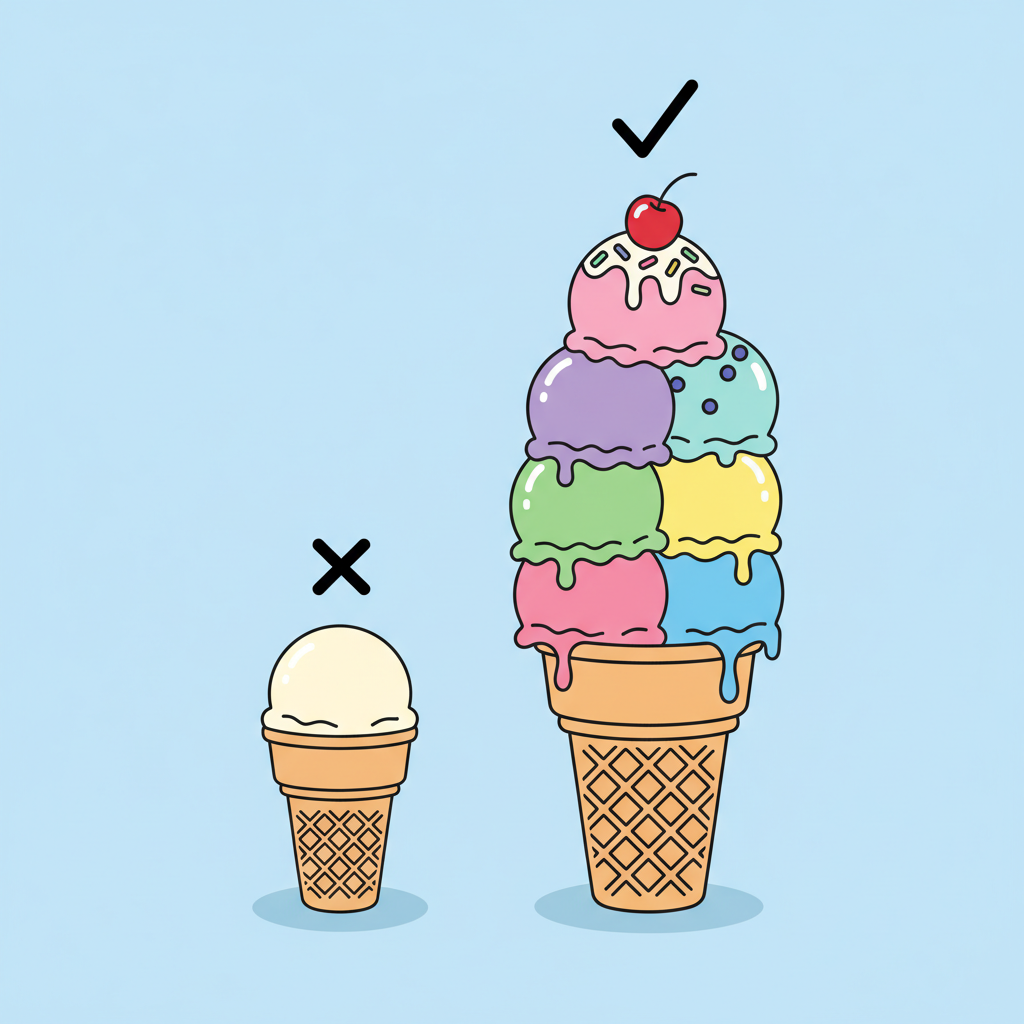
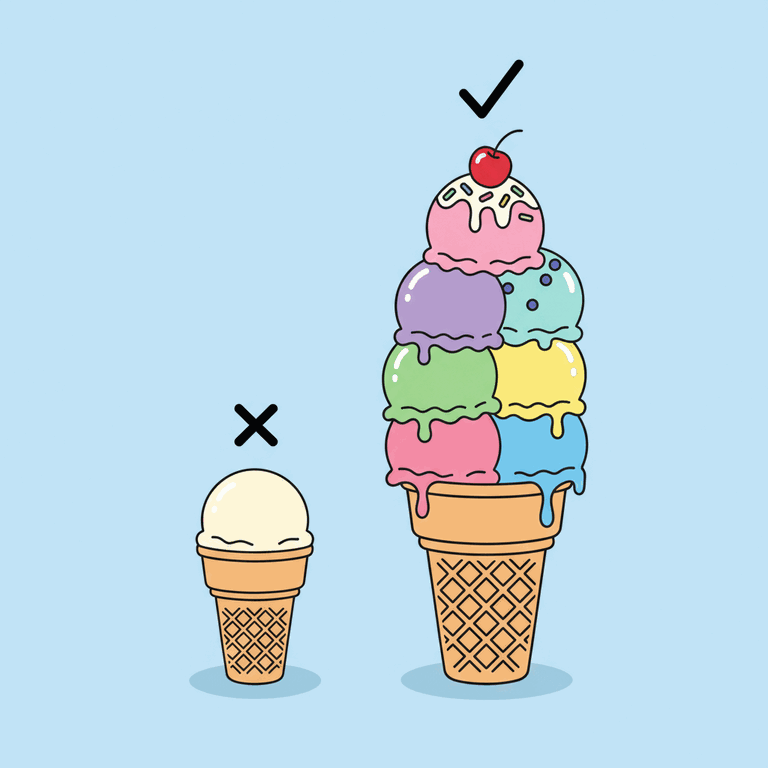
Complete Unit 6: fix #7/#8 image paths, compress all Unit 6 images
Unit 6 comparative images uploaded; #1-#6 matched the predicted names,
#7/#8 filenames were truncated by the source tool so point App.jsx to
the actual files. Compress all Unit 6 images. All 6 units now fully
wired with images (47/47 paths resolve).

Claude-Session: https://claude.ai/code/session_017JBGwPydTrVjsJGsemUjiq

Changed region(s): [[0.2812, 0.8125, 0.375, 0.875]]

diff --git a/src/App.jsx b/src/App.jsx
@@ -70,8 +70,8 @@ const UNIT_POOLS = {
     { emoji: '🍦', image: '/images/04_your_ice_cream_is_bigger_than_mine.png', question: 'Which is bigger, my ice cream or yours?', answer: 'Your ice cream is bigger than mine.', ko: '내 아이스크림과 네 것 중 어느 것이 더 크니? / 네 아이스크림이 내 것보다 더 커.' },
     { emoji: '🌳', image: '/images/05_the_orange_tree_is_taller_than_the_apple_tree.png', question: 'Which is taller, the orange tree or the apple tree?', answer: 'The orange tree is taller than the apple tree.', ko: '오렌지 나무와 사과 나무 중 어느 것이 더 크니? / 오렌지 나무가 사과 나무보다 더 커.' },
     { emoji: '✏', image: '/images/06_the_yellow_pencil_is_longer_than_the_pink_pencil.png', question: 'Which is longer, the yellow pencil or the pink pencil?', answer: 'The yellow pencil is longer than the pink pencil.', ko: '노란 연필과 분홍 연필 중 어느 것이 더 기니? / 노란 연필이 분홍 연필보다 더 길어.' },
-    { emoji: '⚽', image: '/images/07_the_soccer_ball_is_heavier_than_the_tennis_ball.png', question: 'Which is heavier, the soccer ball or the tennis ball? The tennis ball is heavier than the soccer ball.', answer: "I don't think so. The soccer ball is heavier than the tennis ball.", ko: '축구공과 테니스공 중 어느 것이 더 무겁니? 테니스공이 축구공보다 더 무거워. / 난 그렇게 생각하지 않아. 축구공이 테니스공보다 더 무거워.' },
-    { emoji: '🦘', image: '/images/08_the_kangaroo_is_stronger_than_the_dog.png', question: 'Which is stronger, the kangaroo or the dog? The dog is stronger than the kangaroo.', answer: "I don't think so. The kangaroo is stronger than the dog.", ko: '캥거루와 개 중 어느 것이 더 힘이 세니? 개가 캥거루보다 더 힘이 세. / 난 그렇게 생각하지 않아. 캥거루가 개보다 더 힘이 세.' },
+    { emoji: '⚽', image: '/images/07_i_don_t_think_so_the_soccer_ball_is_heavier_than_t.png', question: 'Which is heavier, the soccer ball or the tennis ball? The tennis ball is heavier than the soccer ball.', answer: "I don't think so. The soccer ball is heavier than the tennis ball.", ko: '축구공과 테니스공 중 어느 것이 더 무겁니? 테니스공이 축구공보다 더 무거워. / 난 그렇게 생각하지 않아. 축구공이 테니스공보다 더 무거워.' },
+    { emoji: '🦘', image: '/images/08_i_don_t_think_so_the_kangaroo_is_stronger_than_the.png', question: 'Which is stronger, the kangaroo or the dog? The dog is stronger than the kangaroo.', answer: "I don't think so. The kangaroo is stronger than the dog.", ko: '캥거루와 개 중 어느 것이 더 힘이 세니? 개가 캥거루보다 더 힘이 세. / 난 그렇게 생각하지 않아. 캥거루가 개보다 더 힘이 세.' },
   ],
 };
 
